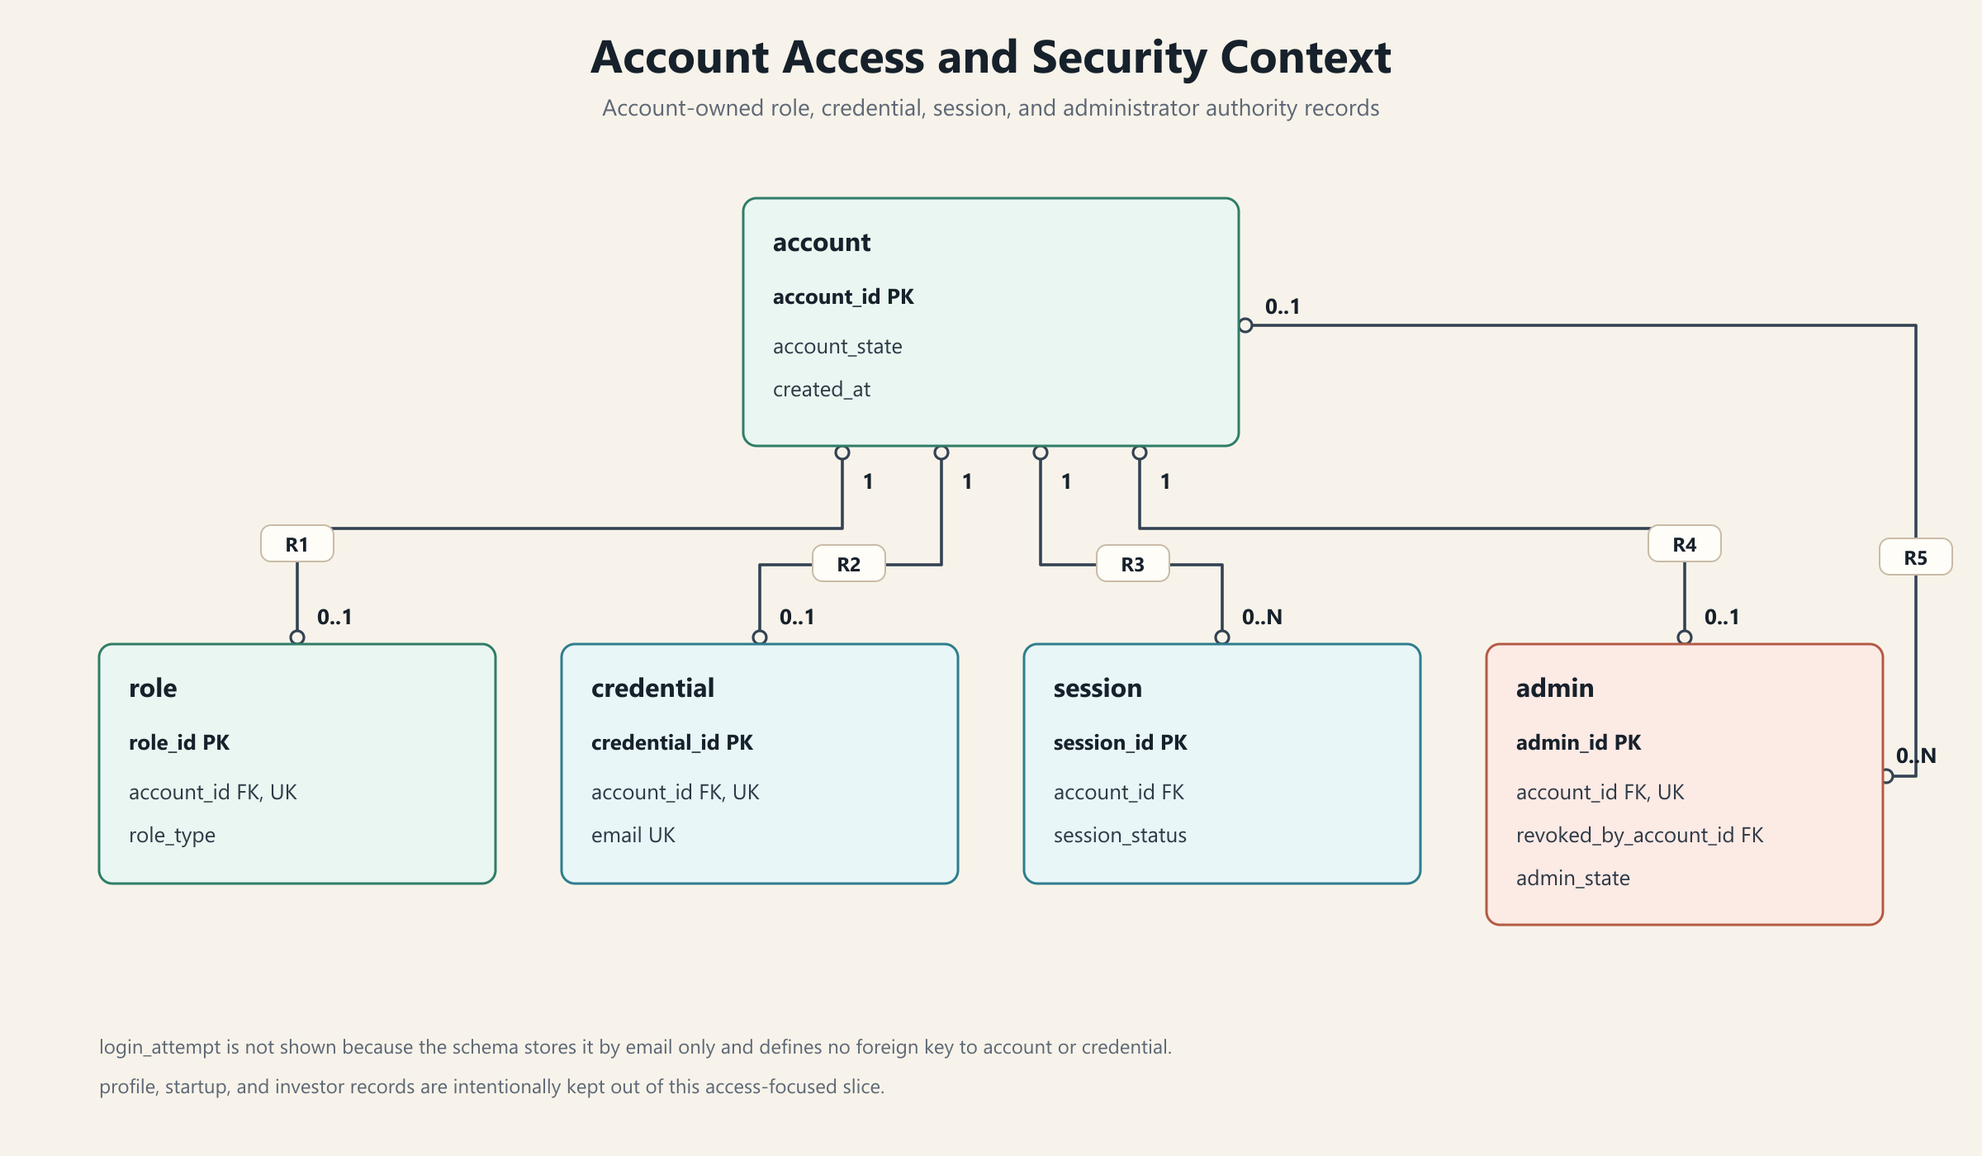
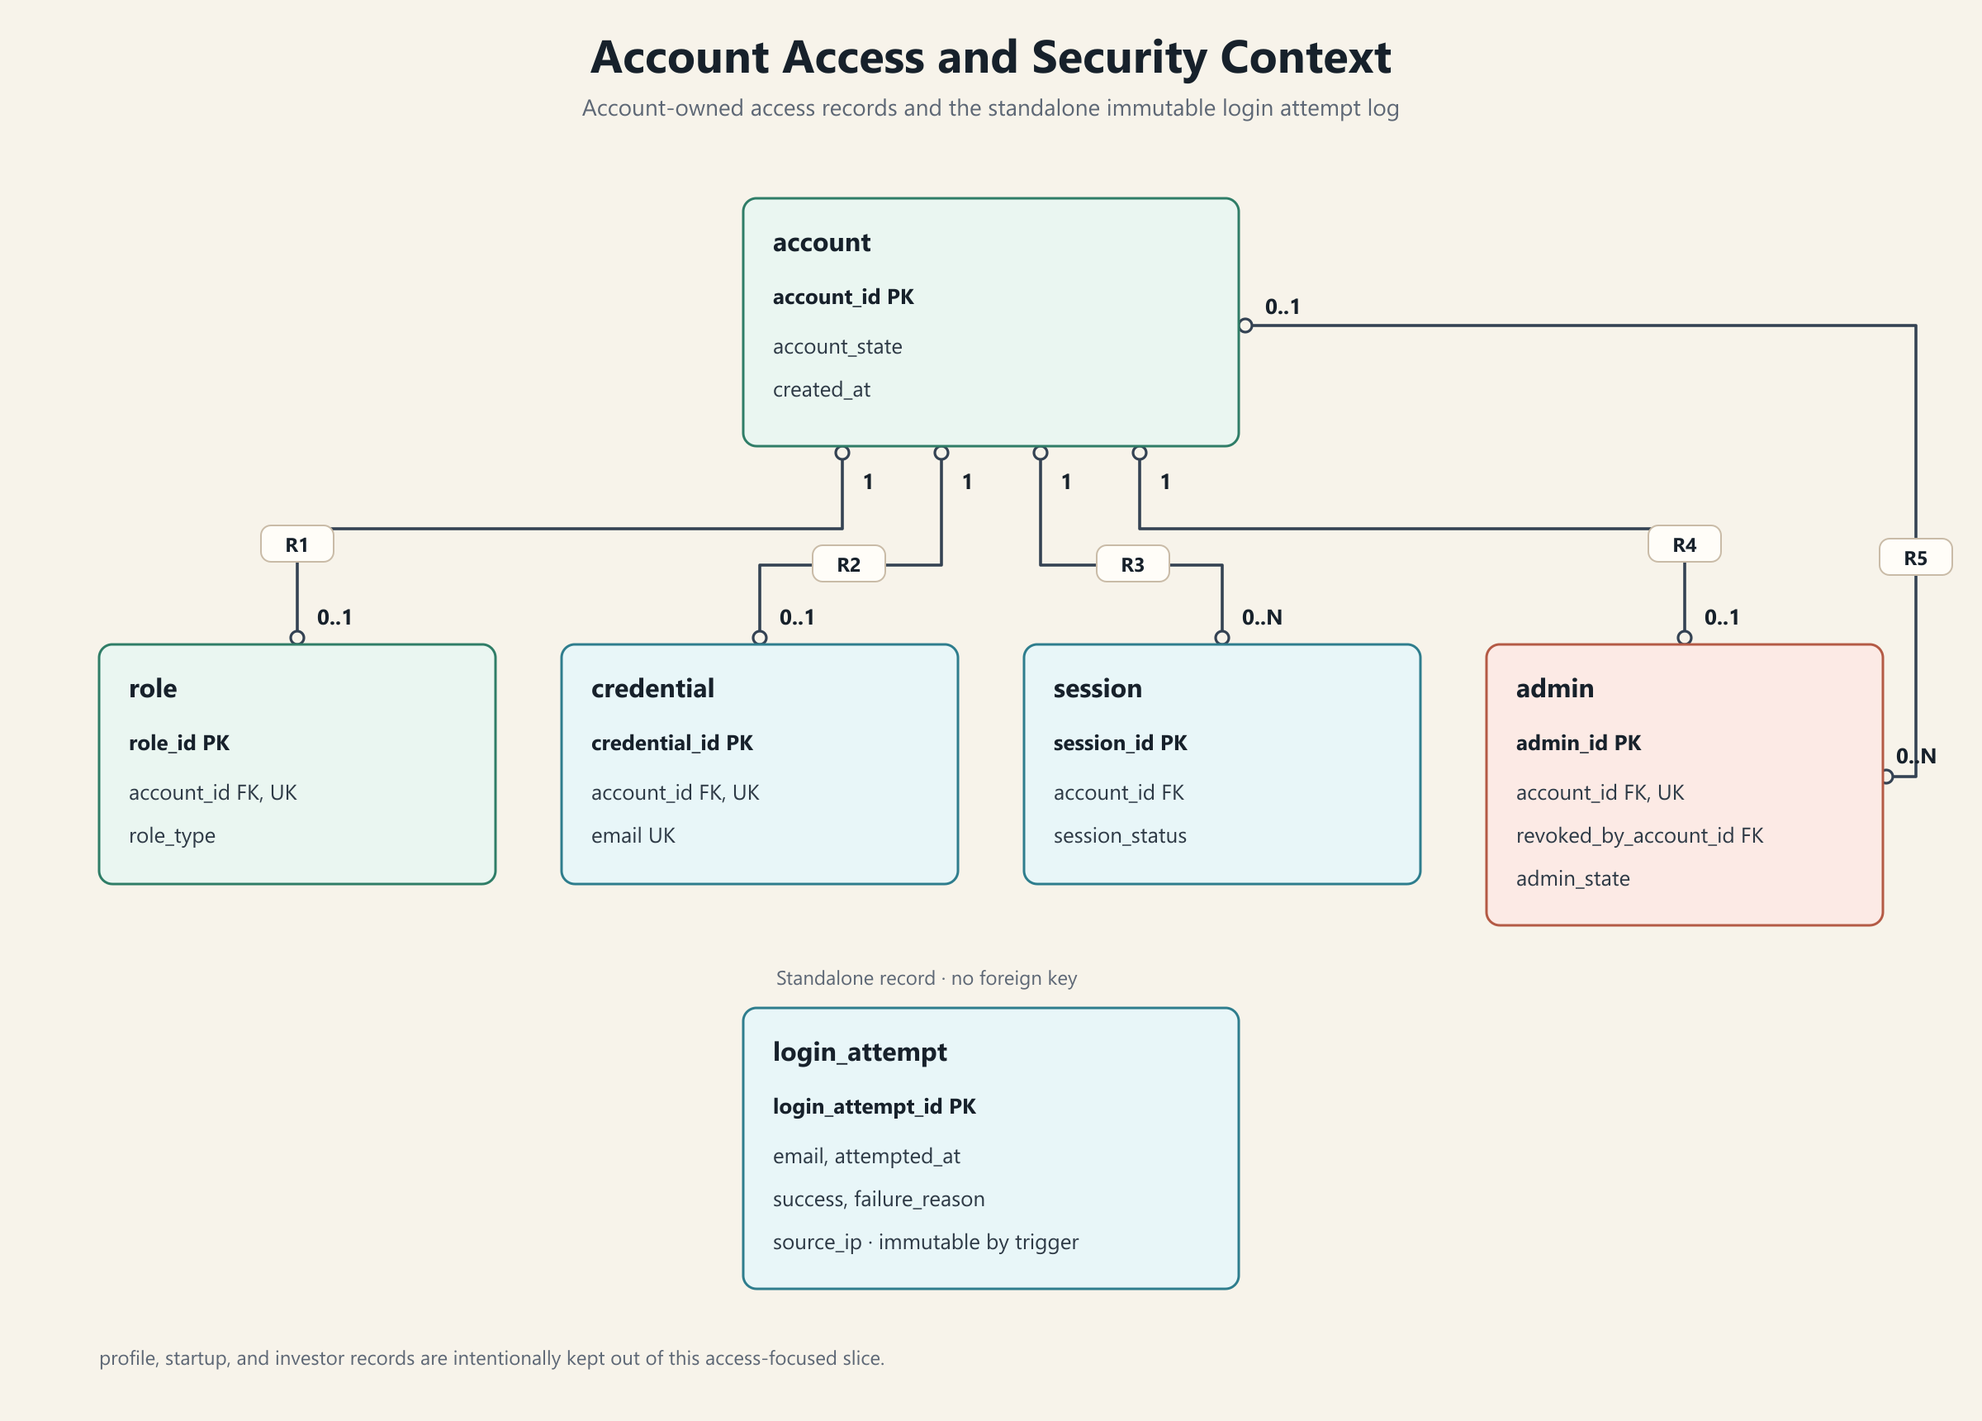
Publish the stable diagram set (KAN-39)

diff --git a/src/test/java/com/project/optrabidz/documentation/DiagramPublicationValidatorTest.java b/src/test/java/com/project/optrabidz/documentation/DiagramPublicationValidatorTest.java
@@ -263,6 +263,79 @@ class DiagramPublicationValidatorTest {
                 .contains("path escapes repository root");
     }
 
+    @Test
+    void rejectsDuplicateIdsAndPublishedSvgAssignments() throws Exception {
+        writeInventory("""
+                {
+                  "schemaVersion": 1,
+                  "renderer": {
+                    "packageName": "@mermaid-js/mermaid-cli",
+                    "version": "11.16.0",
+                    "config": "docs/architecture/diagram-publication/mermaid-config.json"
+                  },
+                  "diagrams": [
+                    {
+                      "id": "duplicate-flow",
+                      "owner": "docs/first.md",
+                      "source": "docs/assets/first.mmd",
+                      "sourceType": "MERMAID_FILE",
+                      "githubSvg": "docs/assets/shared.svg",
+                      "jiraPng": null,
+                      "jiraPngRequired": false,
+                      "remediation": "PASS"
+                    },
+                    {
+                      "id": "duplicate-flow",
+                      "owner": "docs/second.md",
+                      "source": "docs/assets/second.mmd",
+                      "sourceType": "MERMAID_FILE",
+                      "githubSvg": "docs/assets/shared.svg",
+                      "jiraPng": null,
+                      "jiraPngRequired": false,
+                      "remediation": "PASS"
+                    }
+                  ]
+                }
+                """);
+        write("docs/architecture/diagram-publication/mermaid-config.json", "{}\n");
+
+        assertThat(DiagramPublicationValidator.findViolations(repository))
+                .extracting(DiagramPublicationValidator.Violation::reason)
+                .contains(
+                        "diagram id is duplicated",
+                        "GitHub SVG is assigned to more than one diagram");
+    }
+
+    @Test
+    void rejectsPublishedOutputsOutsideTheRepository() throws Exception {
+        writeInventory("""
+                {
+                  "schemaVersion": 1,
+                  "renderer": {
+                    "packageName": "@mermaid-js/mermaid-cli",
+                    "version": "11.16.0",
+                    "config": "docs/architecture/diagram-publication/mermaid-config.json"
+                  },
+                  "diagrams": [{
+                    "id": "escaping-output",
+                    "owner": "docs/owner.md",
+                    "source": "docs/assets/flow.mmd",
+                    "sourceType": "MERMAID_FILE",
+                    "githubSvg": "../outside.svg",
+                    "jiraPng": "../outside.png",
+                    "jiraPngRequired": true,
+                    "remediation": "PASS"
+                  }]
+                }
+                """);
+        write("docs/architecture/diagram-publication/mermaid-config.json", "{}\n");
+
+        assertThat(DiagramPublicationValidator.findViolations(repository))
+                .filteredOn(violation -> violation.path().startsWith("../outside"))
+                .extracting(DiagramPublicationValidator.Violation::reason)
+                .containsOnly("path escapes repository root");
+    }
+
     private void writeInventory(String json) throws Exception {
         write("docs/architecture/diagram-publication/inventory.json", json);
     }

diff --git a/src/test/java/com/project/optrabidz/documentation/DatabaseDiagramCoverageTest.java b/src/test/java/com/project/optrabidz/documentation/DatabaseDiagramCoverageTest.java
@@ -1,0 +1,37 @@
+package com.project.optrabidz.documentation;
+
+import static org.assertj.core.api.Assertions.assertThat;
+
+import java.nio.file.Files;
+import java.nio.file.Path;
+import java.util.Set;
+import java.util.TreeSet;
+import java.util.regex.Pattern;
+import org.junit.jupiter.api.Test;
+
+class DatabaseDiagramCoverageTest {
+
+    private static final Pattern MIGRATION_TABLE = Pattern.compile(
+            "(?m)^CREATE TABLE(?: IF NOT EXISTS)?\\s+([a-z_][a-z0-9_]*)\\s*\\(");
+    private static final Pattern DIAGRAM_ENTITY = Pattern.compile(
+            "(?m)^ {4}([a-z_][a-z0-9_]*) \\{$");
+
+    @Test
+    void erDiagramSourceCoversEveryFlywayBaselineTable() throws Exception {
+        String migration = Files.readString(Path.of(
+                "src", "main", "resources", "db", "migration",
+                "V1__baseline.sql"));
+        String diagramSource = Files.readString(Path.of(
+                "docs", "database", "assets", "er-diagram-source.md"));
+
+        assertThat(matches(DIAGRAM_ENTITY, diagramSource))
+                .as("ER diagram entities must match Flyway baseline tables")
+                .containsExactlyElementsOf(matches(MIGRATION_TABLE, migration));
+    }
+
+    private static Set<String> matches(Pattern pattern, String content) {
+        return pattern.matcher(content).results()
+                .map(result -> result.group(1))
+                .collect(java.util.stream.Collectors.toCollection(TreeSet::new));
+    }
+}

diff --git a/docs/architecture/work-items/KAN-39-diagram-publication-quality/audit.md b/docs/architecture/work-items/KAN-39-diagram-publication-quality/audit.md
@@ -76,7 +76,7 @@ named production capability or documentation coverage is incomplete.
 | Session security | `IMPLEMENTED` | `security/infrastructure/config/SecurityConfig.java`; session filters; security HTTP tests | Server-side session, CSRF, matched route rules, security Problem Details, and current public listing reads documented |
 | JWT and OAuth2 | `PLANNED` | No corresponding dependency or production implementation | Described only as possible future adapters |
 | Flyway schema ownership | `IMPLEMENTED` | `db/migration/V1__baseline.sql`; database migration integration tests; JPA configuration | Flyway ownership and Hibernate validation verified |
-| ER diagram coverage | `PARTIAL` | 35 V1 tables compared with 34 unique entities in `database/assets/er-diagram-source.md` | Missing `login_attempt` recorded; V1 SQL named as complete source until Task 5 remediation |
+| ER diagram coverage | `IMPLEMENTED` | 35 V1 tables compared with 35 unique entities in `database/assets/er-diagram-source.md`; `DatabaseDiagramCoverageTest` | `login_attempt` added as a standalone immutable security log without inventing a foreign-key relationship |
 | Outbox and audit | `IMPLEMENTED` | `common/event/`; `common/outbox/`; `audit/`; outbox and audit tests | Atomic outbox write, `SKIP LOCKED` dispatch, retry, audit persistence, request correlation, and masking verified |
 | Notifications | `PARTIAL` | `notification/`; dispatcher and API tests | In-app persistence, subscriptions, delivery attempts, retry, sandbox email, and sandbox push exist; no external provider or broker is claimed |
 | Payments and webhooks | `PARTIAL` | `financial/`; financial and webhook integration tests | Local/sandbox strategies, HMAC-style verification, bounded ingress, and database replay claims exist; no real-money provider is claimed |
@@ -93,10 +93,32 @@ named production capability or documentation coverage is incomplete.
 - State that general module dependency enforcement remains incomplete.
 - Distinguish development admin and payment configuration from notification
   channel defaults.
-- Add `login_attempt` when the surviving ER set is remediated.
+- Add `login_attempt` when the surviving ER set is remediated. Resolved in Task 5 with automated Flyway-to-ER coverage.
 - Keep Kafka, Redis, JWT, OAuth2, external notification providers, AOP policy,
   centralized observability, and real-money processing out of current-state
   claims.
+
+## Stable diagram review
+
+Every entry was rendered from its declared canonical source. Desktop and phone
+previews use 980- and 390-pixel widths. Dense ER phone previews preserve the
+relationship map; their field detail remains lossless through the embedded SVG.
+
+| Diagram | Repository truth reviewed | Desktop | Phone | Dark surround | Jira PNG |
+|---|---|---|---|---|---|
+| System overview | Runtime boundaries, modules, PostgreSQL, outbox, audit, notification adapters | Pass | Inline readable | Pass | 2400×3000 |
+| Account access and security | V1 account, role, credential, session, admin, and standalone `login_attempt` | Pass | Relationship map + SVG detail | Pass | 2400×1720 |
+| Participant profile | V1 account-owned profile, startup, investor, and detail-table FKs | Pass | Relationship map + SVG detail | Pass | 2400×1509 |
+| Marketplace listing and bidding | V1 listing, debt terms, bid, investor, and partial accepted-bid rule | Pass | Relationship map + SVG detail | Pass | 2400×1520 |
+| Agreement acceptance and terms | V1 agreement FKs, unique bid, debt terms, and consistency triggers | Pass | Relationship map + SVG detail | Pass | 2400×1337 |
+| Settlement | V1 agreement and participant FKs plus consistency trigger | Pass | Relationship map + SVG detail | Pass | 2400×1300 |
+| Repayment schedule | V1 agreement, participant, repayment, and installment relationships | Pass | Relationship map + SVG detail | Pass | 2400×1560 |
+| Payment intent | V1 nullable purpose sources and payer/payee account FKs | Pass | Relationship map + SVG detail | Pass | 2400×1440 |
+| Payment attempt and provider | V1 intent, provider, method, and attempt relationships | Pass | Relationship map + SVG detail | Pass | 2400×1300 |
+| Payment webhook | V1 provider idempotency and nullable payment references | Pass | Relationship map + SVG detail | Pass | 2400×1300 |
+| Notification delivery | V1 recipient, channel, attempt, subscription, and account FKs | Pass | Relationship map + SVG detail | Pass | 2400×1337 |
+| Outbox and audit correlation | V1 audit actor FK and non-FK `event_id` correlation | Pass | Relationship map + SVG detail | Pass | 2400×1400 |
+| Public error contract | Catalogue merge behavior, OpenAPI publication, Markdown snapshot, and separate HTTP exposure boundary | Pass | Inline readable | Pass | 2400×2133 |
 
 ## Execution evidence
 
@@ -116,7 +138,7 @@ named production capability or documentation coverage is incomplete.
 | Stable hierarchy | Generated public error catalogue | Pass: moved under `docs/api` and snapshot parity verified |
 | Stable hierarchy | Structure and repository link checks | Pass |
 | Truth baseline | Build, profiles, modules, HTTP, security, errors, schema, delivery, integrations, and tests compared with repository sources | 16 topics classified; six stable-guide corrections identified |
-| Truth baseline | V1 table inventory compared with ER source | 35 schema tables; 34 diagram entities; `login_attempt` queued for Task 5 |
+| Truth baseline | V1 table inventory compared with ER source | Initially 34 diagram entities; Task 5 now covers all 35 and enforces parity in `DatabaseDiagramCoverageTest` |
 | Truth baseline | Future-infrastructure scan | No production Kafka, Redis, JWT, OAuth2, or `@Aspect` implementation |
 | Historical cleanup | 41 completed work-item Markdown records | Removed after their current guidance was distilled; only the three active KAN-39 records remain |
 | Historical cleanup | 57 historical diagram assets reviewed | 54 obsolete assets removed; the three-file public error-contract set migrated to `docs/api/assets/` |
@@ -124,6 +146,11 @@ named production capability or documentation coverage is incomplete.
 | Historical cleanup | Diagram publication inventory | Reduced to 13 stable reader-facing diagrams with stable owners |
 | Historical cleanup | Structure, link, publication, and catalogue tests | Pass |
 | Historical cleanup | `npm run diagrams:check` and `git diff --check` | Pass |
+| Stable diagram set | `npm run diagrams:render` and `npm run diagrams:preview` | 13 canonical SVGs, 13 generated 2400-pixel PNGs, and 39 untracked review previews produced |
+| Stable diagram set | Desktop, 390-pixel phone, and dark-surround inspection | Pass for all 13 entries; no clipping, collision, ambiguous routing, or transparent canvas |
+| Stable diagram set | Public error-contract architecture | Corrected catalogue generation and HTTP documentation exposure into separate responsibilities |
+| Stable diagram set | `DatabaseDiagramCoverageTest` | Pass: all 35 Flyway V1 tables represented |
+| Stable diagram set | Inventory, publication, structure, and link test gate | Pass |
 
 Temporary review sheets remain under `target/documentation-review/` and are
 never committed.

diff --git a/docs/architecture/work-items/KAN-39-diagram-publication-quality/implementation-plan.md b/docs/architecture/work-items/KAN-39-diagram-publication-quality/implementation-plan.md
@@ -519,13 +519,13 @@ git commit -m "Remove obsolete delivery records (KAN-39)"
 - Owner Markdown embeds SVG and links PNG; it never links source.
 - Rendering `--check` performs no writes.
 
-- [ ] **Step 1: Make the inventory represent only stable reader questions**
+- [x] **Step 1: Make the inventory represent only stable reader questions**
 
 Remove entries whose owner was deleted. Update migrated owner/source/output
 paths. Reject duplicate IDs, duplicate published SVGs, and output paths outside
 the repository in validator fixtures.
 
-- [ ] **Step 2: Regenerate straightforward Mermaid diagrams**
+- [x] **Step 2: Regenerate straightforward Mermaid diagrams**
 
 Render and preview the complete stable inventory; the renderer itself selects
 Mermaid only for `MERMAID_FILE` entries:
@@ -539,20 +539,20 @@ Preserve existing meaning and accepted appearance. Change layout only when the
 desktop or phone preview demonstrates clipping, overlap, unreadable labels,
 excessive empty canvas, or confusing routing.
 
-- [ ] **Step 3: Derive fallbacks from curated SVG sources**
+- [x] **Step 3: Derive fallbacks from curated SVG sources**
 
 For each `CURATED_SVG`, use Sharp to flatten the same SVG onto an opaque
 background and write a 2400-pixel-wide PNG. Never maintain a separately drawn
 PNG.
 
-- [ ] **Step 4: Complete manual visual evidence**
+- [x] **Step 4: Complete manual visual evidence**
 
 For every surviving diagram, record desktop, 390-pixel preview, dark
 surrounding contrast, and Jira PNG results. The architecture fixture already
 has a separate GitHub Mobile result; repeat device review for any figure whose
 layout materially differs.
 
-- [ ] **Step 5: Run publication tests and commit**
+- [x] **Step 5: Run publication tests and commit**
 
 ```powershell
 npm run diagrams:check

diff --git a/docs/architecture/diagram-publication.md b/docs/architecture/diagram-publication.md
@@ -68,8 +68,9 @@ A publication entry passes only when:
 - the PNG is readable, opaque, and at least 2000×600 pixels; and
 - no temporary clipboard image is published under `docs/`.
 
-Structural checks cannot prove readability. Review every changed diagram at
-normal desktop width and at a 358-pixel mobile content width. Confirm that:
+Structural checks cannot prove readability. `npm run diagrams:preview` creates
+980-pixel desktop, 390-pixel phone, and dark-surround previews under the
+untracked `target/documentation-review/` directory. Confirm that:
 
 - the reading direction is obvious;
 - labels remain legible and do not clip or overlap;
@@ -87,8 +88,12 @@ normal desktop width and at a 358-pixel mobile content width. Confirm that:
 | Redesign | The diagram clips, wastes space, branches poorly, or becomes hard to scan | Change grouping, direction, spacing, or labels before rendering |
 | Split | One canvas contains independent flows that cannot remain readable at page width | Publish smaller diagrams with one review responsibility each |
 
-Do not increase resolution to conceal a poor layout. If a reviewer needs zoom
-to understand the normal GitHub embed, redesign or split it.
+Do not increase resolution to conceal a poor layout. Overview and process-flow
+diagrams must remain understandable in the normal phone-width embed. For dense
+ER slices, the entity grouping and cardinality map must remain distinguishable
+at phone width, while field-level detail may use the embedded SVG's lossless
+tap-to-open zoom. If the relationship structure itself needs zoom, redesign or
+split the diagram.
 
 ## Adding a diagram
 

diff --git a/docs/database/README.md b/docs/database/README.md
@@ -26,10 +26,11 @@ Solid ER relationships represent database foreign keys. Event correlation
 without a foreign key is identified explicitly so diagrams do not imply a
 constraint that the schema does not contain.
 
-The V1 baseline currently defines 35 tables. The published ER set visualizes
-34; `login_attempt` remains schema-backed but is not yet represented in the
-diagram set. Until the diagrams are remediated, use `V1__baseline.sql` as the
-complete relationship reference.
+The V1 baseline currently defines 35 tables, and all 35 appear in the published
+ER source. `login_attempt` is shown as a standalone security log because the
+schema deliberately defines no foreign key from it to `account` or
+`credential`. An automated coverage check keeps the Flyway table set and ER
+entity set aligned.
 
 ## Ownership Rules
 

diff --git a/docs/database/er-diagram.md b/docs/database/er-diagram.md
@@ -30,9 +30,10 @@ available in the executable Flyway migration
 
 [High-resolution PNG for Jira and offline review](assets/account-access-security-er.png)
 
-This slice focuses only on account-owned access records. `login_attempt` is left
-out because it stores attempted email values and has no database foreign key to
-`account` or `credential`.
+This slice includes account-owned access records and the standalone
+`login_attempt` security log. A login attempt stores the submitted email value
+but has no database foreign key to `account` or `credential`; update and delete
+triggers make these records immutable.
 
 | Rel | Parent | Cardinality | Child | Schema basis |
 |---|---|---:|---|---|

diff --git a/docs/api/errors.md b/docs/api/errors.md
@@ -16,7 +16,8 @@ Module catalogues own public descriptors. The documentation adapter adds the
 fixed framework and security problems, normalizes and validates the combined
 set, then publishes the same contract to OpenAPI and the generated Markdown
 catalogue. Runtime exception handling does not query the documentation
-catalogue.
+catalogue. The fail-closed documentation policy separately controls access to
+the HTTP OpenAPI and Swagger UI endpoints; it does not filter catalogue entries.
 
 ## Response Shape
 

diff --git a/docs/database/assets/er-diagram-source.md b/docs/database/assets/er-diagram-source.md
@@ -34,6 +34,14 @@ erDiagram
         bigint account_id FK
         session_status_enum session_status
     }
+    login_attempt {
+        bigint login_attempt_id PK
+        varchar email
+        timestamptz attempted_at
+        boolean success
+        text failure_reason
+        text source_ip
+    }
     admin {
         bigint admin_id PK
         bigint account_id FK_UK
